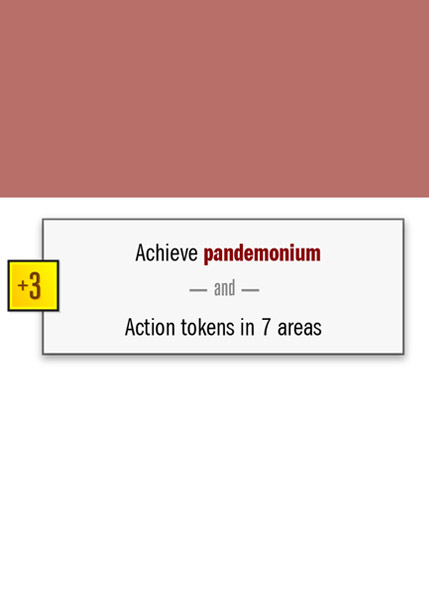
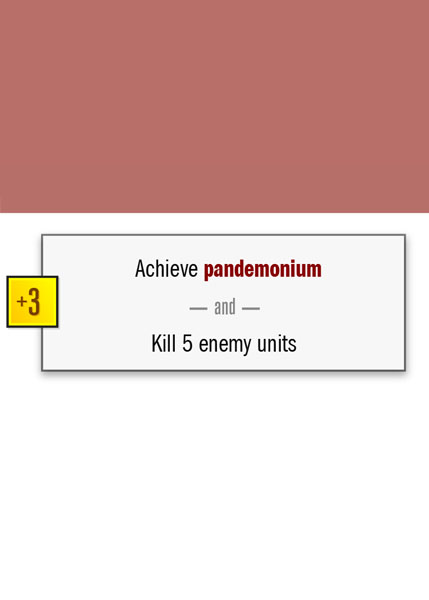
Tweak Devils: make stoke chaos independent from chaos,stoke works as long as you have no attacking units

Changed region(s): [[0.0, 0.33, 1.0, 0.63]]

diff --git a/server/classes/factions/Devils.js b/server/classes/factions/Devils.js
@@ -10,7 +10,7 @@ class Devils extends Faction {
         // triggers
         this.triggers = {
             "onCleanUp" : "resetChaos",
-            "onFactionKillsUnit" : "raiseChaos",
+            "onFactionKillsUnit" : "checkCardChaos",
         };
 
         // data
@@ -51,16 +51,16 @@ class Devils extends Faction {
                 flipped: false,
                 type: 'champion',
                 basic: false,
-                attack: [6],
+                attack: [],
                 influence: 1,
                 seeking : false,
-                cost: 1,
+                cost: 0,
                 killed : false,
                 skilled : true,
                 ready : false,
                 onDeploy: 'deployCheckIfDelighted',
                 onSkill: 'princeLootCards',
-                dontUnflipOnDeploy: true,
+                dontUnflipAutomatically: true,
                 selected : false,
                 hitsAssigned : 0,
             }
@@ -77,11 +77,14 @@ class Devils extends Faction {
         this.data.stokeBattles = upgrade + 1;
     }
 
-    raiseChaos( unit, options ){
-        console.log("raise Chaos", unit, options);
-
+    checkCardChaos( unit, options ){
         // if the attack was
-        if(options.unit?.faction === this.name || this.data.chaos >= this.data.chaosLevels.max) return;
+        if(options.unit || unit.faction === this.name) return;
+        this.raiseChaos();
+    }
+
+    raiseChaos(){
+        if(this.data.chaos >= this.data.chaosLevels.max) return;
 
         // increment chaos
         this.data.chaos++;
@@ -116,7 +119,7 @@ class Devils extends Faction {
      * @param event
      */
     deployCheckIfDelighted( event ) {
-        if(event.unit.flipped || !this.hasChaosLevel("bedlam")) return;
+        if(event.unit.flipped || !this.hasChaosLevel("pandemonium")) return;
         this.becomesDelighted( event.unit );
     }
 
@@ -129,6 +132,8 @@ class Devils extends Faction {
         unit.seeking = true;
         unit.attack = [6,6,6];
         unit.influence = 3;
+
+        if( this.game().combat ) this.game().combat.addUnitToCombat( unit );
 
         this.message("The Gleeful Prince becomes delighted" );
     }
@@ -146,7 +151,7 @@ class Devils extends Faction {
 
         unit.flipped = false;
         unit.seeking = false;
-        unit.attack = [6];
+        unit.attack = [];
         unit.influence = 1;
 
         this.message("The Gleeful Prince is no longer delighted" );
@@ -206,6 +211,12 @@ class Devils extends Faction {
         return this.canActivateBattle( token, area );
     }
 
+    collectStokeChaos(unit){
+        if(unit.faction !== this.name){
+            this.raiseChaos();
+        }
+    }
+
     /**
      * Handle activating our Mr. Fusion token
      *
@@ -213,13 +224,13 @@ class Devils extends Faction {
      */
     async activateStokeToken( args ){
         let battles = 0;
-        let stokingTheFlames = !this.hasUnitsInArea( args.area );
+        let stokingTheFlames = !this.hasUnitsInArea( args.area, { withAttack : true } );
         let options = {};
 
         if( stokingTheFlames ){
             this.message( "Is stoking the flames of hate and violence" );
             this.drawCards( 1, true );
-            options.scoreKills = this;
+            options.onCombatDeath = { method: 'collectStokeChaos', faction: this };
         }
 
         // keep playing cards until we decide to stop

diff --git a/server/classes/gameMixins/combat.js b/server/classes/gameMixins/combat.js
@@ -97,11 +97,9 @@ let obj = {
     async killUnit( unit, faction, options = {} ){
         if( typeof faction === 'string' ) faction = this.factions[faction];
 
-        console.log("killUnit options", options);
-
-        // if we have overridden who scores this kill apply that now
-        if(options.scoreKills){
-            faction = options.scoreKills;
+        // if we have some triggered effect on combat death
+        if( options.onCombatDeath ){
+            await options.onCombatDeath.faction[options.onCombatDeath.method]( unit );
         }
 
         // un-web our unit if needed
@@ -124,7 +122,7 @@ let obj = {
         if( faction.triggers.onFactionKillsUnit ) await faction[faction.triggers.onFactionKillsUnit]( unit, options );
 
         // unflip our unit if needed
-        if( unit.flipped ) this.factions[unit.faction].unflipUnit( unit );
+        if( unit.flipped && !unit.dontUnflipAutomatically) this.factions[unit.faction].unflipUnit( unit );
 
     },
 };

diff --git a/server/classes/factions/Skeletons.js b/server/classes/factions/Skeletons.js
@@ -180,8 +180,6 @@ class Skeletons extends Faction {
                 unitTypes: Array.from(raiseableUnits),
             });
 
-            console.log( 'choose lich option response', response );
-
             // if we declined conclude the loop
             if( response.action === 'decline' ){
                 done = true;
@@ -196,10 +194,8 @@ class Skeletons extends Faction {
                 }
             } else {
                 let unitRaised = await this.raiseUnit([args.area.name]);
-                console.log("unitRaised", unitRaised);
 
                 if( unitRaised ){
-                    console.log("unit raised");
                     actionsTaken.push('raise');
                 }
             }
@@ -418,8 +414,6 @@ class Skeletons extends Faction {
 
             units.push(unit);
         });
-
-        console.log("Done raising");
 
         await this.game().timedPrompt('units-shifted', {
             message: `Skeletons were raised`,

diff --git a/server/classes/factions/Bikers.js b/server/classes/factions/Bikers.js
@@ -139,7 +139,6 @@ class Bikers extends Faction {
         const factionCount = faction.unitsInArea(area).length;
         // only opponents with fewer units than us are affected
         if (faction.name === this.name || factionCount === 0 || factionCount >= unitCount){
-            console.log(faction.name + ' not intimidated', faction.unitsInArea(area).length, unitCount);
             return {notIntimidated: true};
         }
 
@@ -197,13 +196,10 @@ class Bikers extends Faction {
     }
 
     async bladeRecruit( event ){
-        console.log("blade recruit", event);
         if(!this.data.upgrade || !this.data.units.some( unit =>  _.unitInReserves( unit, { type : 'patsy' } ) ) ) return;
 
         // gain resources equal to the hits scored
         const count = this.data.upgrade === 1 ? 1 : event.hits;
-        console.log("recruit count", count);
-
         await this.resolveRecruitPatsies( event.unit.location, count );
     }
 

diff --git a/server/classes/Battle.js b/server/classes/Battle.js
@@ -243,7 +243,7 @@ class Battle {
             attackBonus : this.options.attackBonus,
             inCombat : true,
             controllingFaction : controllingFaction,
-            scoreKills : this.options.scoreKills,
+            onCombatDeath : this.options.onCombatDeath,
         };
 
         // attack with the unit
@@ -319,10 +319,12 @@ class Battle {
     }
 
     addUnitToCombat( unit ){
+        if(unit.location !== this.area.name ) return;
+
         if( unit.attack.length ) unit.needsToAttack = true;
         if( unit.prepared ) unit.startedPrepared = true;
         for( let faction of Object.values( this.data.factions ) ){
-            if( faction.name !== unit.faction ) continue;
+            if( faction.name !== unit.faction || faction.units.find( item => item.id === unit.id )) continue;
             faction.units.push( unit );
         }
     }

diff --git a/server/classes/gameMixins/startOfTurn.js b/server/classes/gameMixins/startOfTurn.js
@@ -64,10 +64,8 @@ let obj = {
 
     gainBankResource(){
         const owner = this.areas['bank'].data.owner;
-        console.log("bank owner", owner);
         if(!owner || owner === "neutral" ) return;
 
-        console.log("grant bank owner a resource");
         this.factions[owner].gainResources(1);
         this.message({ message: 'Gain xRx for controlling the Bank', faction : owner });
     },

diff --git a/server/classes/factions/mixins/deploysUnits.js b/server/classes/factions/mixins/deploysUnits.js
@@ -251,7 +251,7 @@ let obj = {
         });
 
         // heal wounded units, ad unflip units coming in from the reserves
-        if( !unit.dontUnflipOnDeploy && unit.flipped && ( unit.toughness || !unit.location || unit.skeleton ) ){
+        if( !unit.dontUnflipAutomatically && unit.flipped && ( unit.toughness || !unit.location || unit.skeleton ) ){
             this.unflipUnit( unit );
         }
 

diff --git a/server/classes/areas/Area.js b/server/classes/areas/Area.js
@@ -56,7 +56,6 @@ class Area {
 
         // set card owner and move to appropriate deck
         this.data.cards.forEach( card => {
-            console.log("card.owner", card.owner, faction?.name);
             if(faction && card.owner !== faction.name){
                 faction.message(`Scrounges a ${card.name} card from the trash`);
                 faction.data.cards.hand.push(card);

diff --git a/server/classes/factions/mixins/revivesUnits.js b/server/classes/factions/mixins/revivesUnits.js
@@ -64,7 +64,6 @@ let obj = {
             if( unit.flipped ) this.faction.unflipUnit( unit );
         });
 
-        console.log( 'checkForReviveEvent', args.reviveEvent, this.hasOwnProperty( args.reviveEvent ) );
         if( args.reviveEvent && typeof this[args.reviveEvent] === 'function' ){
             units = this[args.reviveEvent]( units, args );
         }

diff --git a/server/classes/factions/Ninjas.js b/server/classes/factions/Ninjas.js
@@ -99,7 +99,6 @@ class Ninjas extends Faction {
 
         // if the token revealed wasn't a battle token, or lotus dancer isn't in play, then abort
         let lotusDancer = this.getChampionInPlay();
-        console.log( lotusDancer );
         if (token.type !== 'battle' || !lotusDancer) return;
 
         // get lotus dancer's area, and the token's area

diff --git a/server/classes/factions/plans/devilsPlans.js b/server/classes/factions/plans/devilsPlans.js
@@ -46,7 +46,7 @@ let obj = [
             {
                 requirements : [
                     { test : 'haveChaos', args : ['pandemonium'] },
-                    { test : 'tokensInAreas', args : [7] },
+                    { test : 'killUnits', args : [5] }
                 ],
                 value : 3
             },

diff --git a/server/classes/factions/mixins/attacksWithUnits.js b/server/classes/factions/mixins/attacksWithUnits.js
@@ -590,8 +590,6 @@ let obj = {
     async resolveHitAssignment( response, killer, area, args ){
         let hasKill;
 
-        console.log("resolveHitAssignment args", args);
-
         // cycle through the units chosen as victims and apply the appropriate hits
         let results = [];
 
